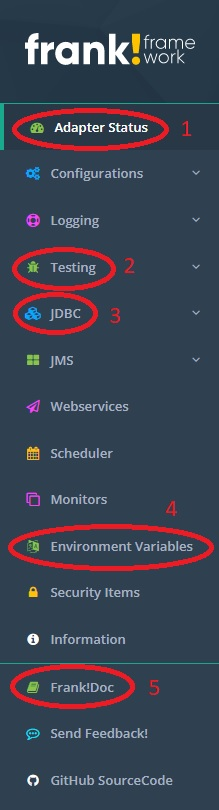
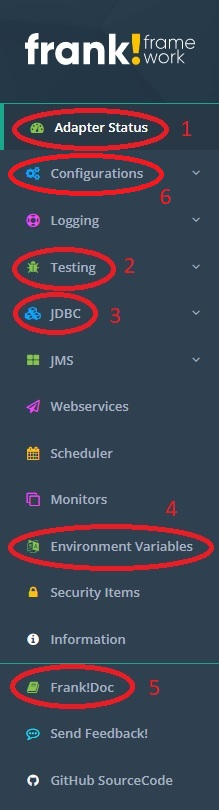
Rewrote section that explains Frank config XML and start new section for testing

Changed region(s): [[0.0274, 0.1852, 0.7945, 0.2778]]

diff --git a/docs/source/gettingStarted/helloIbis.rst b/docs/source/gettingStarted/helloIbis.rst
@@ -6,22 +6,25 @@ Hello World Source Code
 Introduction
 ------------
 
-In the previous section you installed the Frank!Runner, a tool to quickly start the Frank!Framework. You saw the directory structure resulting from this installation. There was subdirectory ``configurations`` with subdirectories ``Example1`` and ``Example2``, which are deployed Frank configs. These directories contain files with extension ``.xml`` and files with extension ``.properties``. XML stands for Extensible Markup Language, see https://www.w3.org/XML/. Property files are text files that contain name/value pairs. In this section you start learning how to write these files.
+In the previous section you installed the Frank!Runner, a tool to quickly start the Frank!Framework. You saw the directory structure resulting from this installation. There was subdirectory ``configurations`` with subdirectories ``Example1a`` and ``Example1b``, which are deployed Frank configs. These directories contain files with extension ``.xml`` and files with extension ``.properties``. XML stands for Extensible Markup Language, see https://www.w3.org/XML/. Property files are text files that contain name/value pairs. In this section you start learning how to write these files.
 
-The simplest configuration you encountered in the previous section was ``Example2``. You will examine its XML text in detail to learn the basic concepts of Frank development. It consists of only one file, ``Configuration.xml``. This file reads as follows:
+The configurations Example1a and Example1b that you encountered in the previous section are almost the same. You will examine the ``Configuration.xml`` of Example1a. It reads as follows:
 
 .. code-block:: XML
 
-   <Configuration name="Example2">
-     <Adapter name="Example2Adapter">
-       <Receiver name="Example2Receiver">
-         <JavaListener name="Example2" serviceName="Example2"/>
+   <Configuration 
+     xmlns:xsi="http://www.w3.org/2001/XMLSchema-instance"
+     xsi:noNamespaceSchemaLocation="../FrankConfig.xsd"
+     >
+     <Adapter name="Adapter1a">
+       <Receiver name="Receiver1a">
+         <ApiListener name="Listener1a" uriPattern="service1a"/>
        </Receiver>
-       <Pipeline firstPipe="Example">
-         <FixedResultPipe name="Example" returnString="Hello World2">
+       <Pipeline>
+         <Exit path="EXIT" state="SUCCESS"/>
+         <FixedResultPipe name="HelloWorld" returnString="Hello World!">
            <Forward name="success" path="EXIT"/>
          </FixedResultPipe>
-         <Exit path="EXIT" state="success"/>
        </Pipeline>
      </Adapter>
    </Configuration>
@@ -33,11 +36,22 @@ The outer part of ``Configuration.xml`` reads:
 
 .. code-block:: XML
 
-   <Configuration name="Example2">
+   <Configuration 
+     xmlns:xsi="http://www.w3.org/2001/XMLSchema-instance"
+     xsi:noNamespaceSchemaLocation="../FrankConfig.xsd"
+     >
      ...
    </Configuration>
 
-It gives the configuration its name ``Example2``.
+You see that an XML schema file ``FrankConfig.xsd`` is referenced. This file describes the syntax of Frank configurations. It prescribes which XML elements are allowed and what attributes they can have. Some text editors including Visual Studio Code and Eclipse can flag syntax errors. They can also provide automatic code completion. Finally, they can show information about the meaning of the elements and attributes you are using. This information is included in the XSD. The Frank!Runner takes care of downloading ``FrankConfig.xsd`` and putting it in the right directory. Please note the relative path ``../FrankConfig.xsd``. This path references ``FrankConfig.xsd`` from the parent of the directory where ``Configuration.xsd`` resides.
+
+More reference information can be found in the Frank!Doc, which you can access through the main menu (see previous section). Here is a screenshot:
+
+.. image:: frankDoc2.jpg
+
+There is a button to download ``FrankConfig.xsd`` manually (number 1). You may need it if you are not using the Frank!Runner. To understand the Frank!Doc, you need to know that each XML element that you can use corresponds to a Java class in the source code of the Frank!Framework (publicly available on `GitHub <https://github.com/ibissource/iaf>`_). For your convenience, we have divided these Java classes in groups. You can select a group in the top-left menu (number 2). Then you can select a Java class in the bottom-left menu (number 3). To the right, you see information about the Java class. You have the full name of the Java class (number 4). You see what XML elements you can use to reference the class (number 5). In the case of Java class ``Configuration``, the only way to reference it is ``<Configuration>``, but there are Java classes that can play different roles within a configuration. Such Java classes have multiple XML elements.
+
+You see that a ``<Configuration>`` element can have a ``name`` attribute (number 6). This attribute has not been set, because the directory name has been used by the Frank!Framework to name the configuration. If you structure your configurations in a different way, you may have to set the ``name`` attribute for your configuration.
 
 Adapter
 -------
@@ -47,18 +61,17 @@ When we examine the contents of the ``<Configuration>`` tag, we find the followi
 .. code-block:: XML
 
    ...
-   <Adapter name="Example2Adapter">
-     <Receiver name="Example2Receiver">
-       <JavaListener name="Example2" serviceName="Example2"/>
+   <Adapter name="Adapter1a">
+     <Receiver name="Receiver1a">
+       ...
      </Receiver>
-     <Pipeline firstPipe="Example">
+     <Pipeline>
        ...
      </Pipeline>
    </Adapter>
    ...
    
-An adapter is a service that is triggered by a receiver and executes a pipeline in response. The ``<Receiver>`` tag
-defines the receiver, while the ``<Pipeline>`` tag defines the pipeline. You encountered adapters and receivers in the previous section on the Adapter Status webpage. That webpage shows their names and their state (e.g. started, stopped, error).
+An adapter is a service that is triggered by a receiver and executes a pipeline in response. It can be compared to a subroutine in programming languages. The receiver defines how the input message is obtained. The pipline defines how the input message is processed. The pipeline produces an output message that may be used by the receiver to produce a response. The ``<Receiver>`` tag configures the receiver and the ``<Pipeline>`` tag defines the pipeline. 
 
 Receiver
 --------
@@ -68,16 +81,16 @@ Our receiver reads:
 .. code-block:: XML
 
    ...
-   <Receiver name="Example2Receiver">
-     <JavaListener name="Example2" serviceName="Example2"/>
+   <Receiver name="Receiver1a">
+     <ApiListener name="Listener1a" uriPattern="service1a"/>
    </Receiver>
    ...
 
-It has name ``Example2Receiver``. Its further definition is provided by the tag within: ``<JavaListener>``. Listeners
-are building blocks that accept input. The choice for ``<JavaListener>`` means that the adapter "Example2Adapter" is
-called directly from Java code. This is a good choice if you only want to call your adapter from other adapters.
+It has name ``Receiver1a``. Its further definition is provided by the tag within: ``<ApiListener>``. Listeners
+are building blocks that accept input. The choice for ``<ApiListener>`` means that the adapter "Adapter1a" listens to
+RESTful HTTP requests and that the HTTP endpoint should be described in an OpenAPI Specification (see `<https://swagger.io/specification/>`_).
 
-There are other listeners, for example ``<ApiListener>`` and ``<DirectoryListener>``. ``ApiListener`` makes your adapter listen to REST HTTP requests. ``DirectoryListener`` triggers your adapter when a file is added to a chosen directory on a (server-side) local file system. The Frank!Framework allows you to search the listener you need. This is explained in subsection :ref:`configurationSyntaxChecking`.
+There are other listeners, for example ``<JavaListener>`` and ``<DirectoryListener>``. ``JavaListener`` makes your adapter listen to direct Java calls. ``DirectoryListener`` triggers your adapter when a file is added to a chosen directory on a (server-side) local file system. The Frank!Doc has a group that contains all listeners.
 
 Pipeline
 --------
@@ -87,46 +100,25 @@ The pipeline defines how the message provided by the receiver should be processe
 .. code-block:: XML
 
    ...
-   <Pipeline firstPipe="Example">
-     ...
-     <Exit path="EXIT" state="success"/>
+   <Pipeline>
+     <Exit path="EXIT" state="SUCCESS"/>
+     <FixedResultPipe name="HelloWorld" returnString="Hello World!">
+       <Forward name="success" path="EXIT"/>
+     </FixedResultPipe>
    </Pipeline>
    ...
 
-A pipeline is a network of pipes. The ``firstPipe="Example"`` attribute defines that the message coming from the receiver should go
-to the pipe named "Example". The ``<Exit>`` tag defines the state in which processing can end. In our case, we have one state that we name "success". It can be referenced from pipes by its path "EXIT".
+A pipeline is a network of pipes. Pipes are predefined functions that can be performed on the incoming message. The ``<FixedResultPipe>`` ignores the input and outputs a fixed string that can be configured. The fixed output string we want is in the ``returnString`` attribute. In the remainder of the :ref:`gettingStarted` chapter, we will see pipes with more interesting functions, like applying XSLT transformations and sending data to a database. The Frank!Doc has a group "Pipes" that holds all available pipes. The ``<Exit>`` tag defines a state in which processing can end. In our case, we have one state that we name "success". It can be referenced from pipes by its path "EXIT".
 
-Pipes and forwards
-------------------
+The ``<Forward>`` within a pipe tag defines what should happen after the execution of that pipe. A forward consists of a forward name and a path. Each pipe predefines the forward names from which it can send the output. For the fixed result pipe, the only possibility is "success", but many pipes also have the possibility "failure". This allows Frank developers to handle errors and to have branching pipelines. The ``<Forward>`` tag within the ``<FixedResultPipe>`` references the path "EXIT", which is the path of the ``<Exit>`` tag. The output of the ``<FixedResultPipe>`` is the result of the pipeline. In more complex pipelines, there are also forwards that reference other pipes by their configured ``name`` attribute. It is also possible to have multiple ``<Exit>`` tags within a ``<Pipeline>``.
 
-We have a very simple pipeline that has only one pipe.
-It reads:
+The shown example pipeline only transform the incoming message to an output message, but you can also send output to external systems. Please see the following screenshot of the Frank!Doc:
 
-.. code-block:: XML
+.. image:: frankDocSenderPipe.jpg
 
-   ...
-   <FixedResultPipe name="Example" returnString="Hello World2">
-     <Forward name="success" path="EXIT"/>
-   </FixedResultPipe>
-   ...
-
-Pipes are predefined functions that can be performed on the incoming message. The ``<FixedResultPipe>`` ignores the input and outputs a fixed string that can be configured. We configure the ``name`` to be "Example". This satisfies the reference made in the ``firstPipe`` attribute in the ``<Pipeline>`` tag. Therefore, the (ignored) incoming message is the message we got from the receiver. The fixed output string we want is in the ``returnString`` attribute.
-
-In the remainder of the :ref:`gettingStarted` chapter, we will see pipes with more interesting functions, like applying XSLT transformations and sending data to a database. In subsection :ref:`configurationSyntaxChecking` you will learn how to search the pipe you need.
-
-The ``<Forward>`` within a pipe tag defines what should happen after the execution of that pipe. A forward consists of a forward
-name and a path. Each pipe predefines the forward names from which it can send the output. For the fixed result pipe, the only
-possibility is "success", but many pipes also have the possibility "failure". This allows Frank developers to handle errors and to have branching pipelines.
-
-Our forward points to the path "EXIT", which is defined within the ``<Exit>`` tag as the only possible exit of the pipeline. In more
-complex pipelines, there are also forwards that reference other pipes by their configured ``name`` attribute. It is also possible to have
-multiple ``<Exit>`` tags within a ``<Pipeline>``.
-
-.. NOTE::
-
-   If you studied computer science or mathematics, the following may help. A pipeline is an example of a graph, with the pipes being the  nodes and the forwards being the edges. Before or after configuring the individual pipes and forwards, you name all allowed exit states of the pipeline. Each forward then either references a next pipe by its name, or names one of the defined exits to indicate the end of processing.
+When you want to send data to an external system, you use pipe ``<SenderPipe>`` (number 1). A ``<SenderPipe>`` can have a sender inside (number 2). When you hover over that word, you get the list of allowed child elements. You can also search senders by selecting group "Senders" in the top-left menu. The choice of the sender and its configuration determine how the input message to the ``<SenderPipe>`` is sent. In section :ref:`insertDb`, you will see that a ``<FixedQuerySender>`` can be used to write data to a database. The figure also shows that the predefined forwards of a pipe are documented (number 3).
 
 Conclusion
 ----------
 
-You studied a simple adapter that is included as an example within the Frank!Runner. It has a receiver that allows us to trigger it. It has a pipeline with a single pipe that outputs a fixed message. In the next section, :ref:`helloTestPipeline`, we will see this adapter in action.
+You studied a simple adapter that is included as an example within the Frank!Runner. It has a receiver that allows us to trigger it. It has a pipeline with a single pipe that outputs a fixed message. In the next section, :ref:`helloTestPipeline`, we will see this adapter in action and we will learn how to test pipelines.

diff --git a/docs/source/gettingStarted/examineExample.rst b/docs/source/gettingStarted/examineExample.rst
@@ -28,10 +28,10 @@ Please do the following:
         |- examples
            |- Frank2Example1
               |- configurations
-                 |- Example1
+                 |- Example1a
                     |- Configuration.xml
                     |- ...
-                 |- Example2
+                 |- Example1b
                     |- Configuration.xml
                     |- ...
               |- tests
@@ -39,7 +39,7 @@ Please do the following:
            |- ...
         |- ...
 
-#. Check that you do NOT have ``franks/frank-runner/build.properties`` at this point. You will study the default Frank, which is in the directory ``franks/frank-runner/examples/Frank2Example1``.
+#. Check that you do NOT have ``franks/frank-runner/build.properties`` at this point. You will study the default Frank application, which is in the directory ``franks/frank-runner/examples/Frank2Example1``.
 #. Start the Frank!Runner as explained in its ``README.md`` file, for example by running ``franks/frank-runner/start.bat``.
 
 The main menu
@@ -53,66 +53,59 @@ The main menu
 #. You see "Larva", "Ladybug", "Test Pipeline" and "Test serviceListener". You will examine the first three of these in this :ref:`gettingStarted`.
 #. You also have "JDBC" (number 3), which stands for "Java DataBase Connectivity". This link can also be expanded by clicking it. Here you can find pages to manage your database.
 #. You will soon examine the "Frank!Doc" page (number 5). Here you can find some resources that help you to write proper Frank configurations.
-#. Finally, the "Environment Variables" page (number 4) is relevant. Here you can find many properties configured within your Frank.
+#. The "Environment Variables" page (number 4) is relevant. Here you can find many properties configured within your Frank.
+#. Finally, you have "Configurations" (number 6). Here you can view the XML code of your configurations as explained later in this section. You can also use this option to upload configurations if you do not want to use the local file system.
 
-General structure of the example Frank
---------------------------------------
+General structure of the example Frank application
+--------------------------------------------------
 
 Let us now investigate the general structure of the ``Frank2Example1`` application. 
 
-13. Look at the "Adapter Status" page. You see you really do have the ``Frank2Example1`` Frank-application (number 2 in the figure below):
+14. Look at the "Adapter Status" page. You see you really do have the ``Frank2Example1`` Frank application (number 2 in the figure below):
 
     .. image:: adapterStatusTopLeft.jpg
 
 #. You also see which version of the Frank!Framework you are using (number 1).
-
-   .. NOTE::
-
-      You will encounter words like Ibis and IAF sometimes. The name of our company became WeAreFrank! by the end of 2019, which was a good moment to rename our products. Implementing these name changes is not yet finished. The words are related to the old names.
-
-#. You saw earlier that the directory ``franks/frank-runner/examples/Frank2Example1/configurations`` has two subdirectories, namely ``Example1`` and ``Example2``. These appear as tabs (number 3 and number 4). These are Frank configurations.
+#. You saw earlier that the directory ``franks/frank-runner/examples/Frank2Example1/configurations`` has two subdirectories, namely ``Example1a`` and ``Example1b``. These appear as tabs (number 3 and number 4). These are Frank configurations.
 
 Frank configurations are meant to be independent of the Frank!Framework instance on which they are deployed. This situation is comparable to software packages in general, which are independent of the specific server on which they are deployed. An example of a software package is Microsoft Word. Everyone who wants this application uses the same installer, independent of the computer on which Microsoft Word is installed.
 
 You as a Frank developer develop a Frank config, which plays the role of a software package in the above metaphor. When you are done, you hand over your Frank config to your customer. The customer has his own production instance of the Frank!Framework, which plays the role of the server. The system administrator deploys your Frank config on the production instance. He can fine-tune the behavior of your Frank config by adding additional configurations on the instance level.
 
-.. NOTE::
+Below the top part of the adapter status page that was shown at step 13, there is useful information about the statuses of your configurations. This information is discussed in chapter :ref:`operator`. There is one button you should remember at this point; it is shown in the figure below. You can use it to reload your configuration after editing it. It will save you a lot of time during development work, because you do not have to restart the Frank!Runner to apply your edits.
 
-   This is a simplified view of the life cycle of a Frank config. Professional Frank developers typically apply Continuous Delivery and Continuous Deploy (CI/CD).
-
-16. To examine the details of a Frank configuration, choose tab "Example2" (number 4 in the figure of step 13). You see the following:
-
-    .. image:: adapterStatusExample2.jpg
-
-#. Please hover over the icons shown as number 1 to number 5. They mean "Started", "Starting", "Stopped", "Stopping", "Error". You see here how many adapters you have and you see for each state how many are in that state. You get a general overview of the health of your configuration.
-#. In the row "Adapters", you see "Example2Adapter" (number 6). An adapter is comparable to a subroutine or method in a programming language. An adapter processes an incoming message, typically an XML document, and produces output. The meaning of "Receivers" will be explained in the next section.
-#. As a Frank developer, you will be very glad with the following feature. You can reload Frank configs without restarting the Frank!Framework. To do this, press the button labeled with number 1 in the figure below:
-
-   .. image:: adapterStatusTopRight.jpg
-
-#. The button changes while the Frank!Framework is busy reloading. When the icon changes back then the Frank!Framework is done.
-#. The button labeled with number 2 is also relevant. It expands all adapters to show you detailed information. You will need it when you work with Larva, see section :ref:`gettingStartedLarva`.
+.. image:: configurationRefresh.jpg
 
 The sources of your Frank configs
 ---------------------------------
 
 System administrators may want to check the sources of the Frank configs they see. Doing this is also relevant for Frank developers who want to debug their work. Please do the following:
 
-22. In the main menu, choose "Environment Variables" (number 5 in the figure below).
+17. In the main menu, choose "Environment Variables" (number 5 in the figure below).
 
     .. image:: mainMenu.jpg
 
-#. Press Ctrl-F to search on this page. In the search field, type ``configurations.names``. Iterate over the search results until you see the following properties: "configurations.directory", "configurations.Example1.classLoaderType", "configurations.Example2.classLoaderType" and "configurations.names".
+#. Press Ctrl-F to search on this page. In the search field, type ``configurations.names``. Iterate over the search results until you see the following properties: "configurations.directory", "configurations.Example1a.classLoaderType", "configurations.Example1b.classLoaderType" and "configurations.names".
 
    .. NOTE::
 
       These properties have been set by the Frank!Runner. If you deploy your Frank config another way, you may have to care about these properties yourself.
 
-#. Property "configurations.names" has value "Example1,Example2", confirming that you have these two Frank configs (excluding the predefined configurations).
-#. Property "configurations.Example1.classLoaderType" has value "DirectoryClassLoader". This means that configuration "Example1" comes from the file system of the computer running the Frank!Framework. Frank configurations can also be deployed on the database, resulting in a different value for this property. Property "configurations.Example2.classLoaderType" also has value "DirectoryClassLoader", confirming that Frank config "Example2" also comes from the local file system.
-#. Property "configurations.directory" has value ``absolute-path-of-directory-franks\frank-runner\..\frank-runner\examples\Frank2Example1\configurations``, the "configurations" directory under the "examples/Frank2Example1" instance. This is the default directory for Frank configs with classLoaderType "DirectoryClassLoader".
+#. Property "configurations.names" has value "Example1a,Example1b", confirming that you have these two Frank configs (excluding the predefined configurations).
+#. Property "configurations.Example1a.classLoaderType" has value "DirectoryClassLoader". This means that configuration "Example1a" comes from the file system of the computer running the Frank!Framework. Frank configurations can also be deployed on the database, resulting in a different value for this property. Property "configurations.Example1b.classLoaderType" also has value "DirectoryClassLoader", confirming that Frank config "Example1b" also comes from the local file system.
+#. Property "configurations.directory" has value ``absolute-path-of-directory-franks\frank-runner\examples\Frank2Example1\configurations``, the "configurations" directory under the "examples/Frank2Example1" instance. This confirms the directory that holds the source code of your configurations.
+
+You can also use the Frank!Console to see what XML code has been loaded. Please do the following:
+
+22. Click "Configurations" in the main menu (number 1 in the figure below).
+
+    .. image:: showConfiguration.jpg
+
+#. The "Configurations" item expands. Click "Show configurations" (number 2).
+#. You can choose which configuration you want to see. In the figure all configurations are shown (number 3). You can also choose to see one of the configurations "Example1a" or "Example1b".
+#. Choose "Original configuration" (number 4). With "Loaded Configuration", you would see a transformed configuration that is used internally by the Frank!Framework. That one is harder to read.
 
 Summary
 -------
 
-The Frank!Runner allows you to quickly start the Frank!Framework. After starting it, you can visit its Graphical User Interface, the Frank!Console. The Frank!Console shows you what Frank configurations have been deployed and where there sources are located. A Frank configuration can be compared to a computer program which is independent of the computer on which it is deployed. The role of the computer is played by an instance of the Frank!Framework. The Frank!Framework can host multiple Frank configs, each being presented in its own tab on the Adapter Status page. The Adapter Status page shows that a Frank configuration contains adapters. An adapter receives messages and produces output, making it comparable to a subroutine in a programming language. The Adapter Status page shows the status of your adapters and so-called "receivers", which are explained later. Finally, you can use the Adapter Status screen to reload your Frank configs without restarting the Frank!Framework. This will save you a lot of time.
+The Frank!Runner allows you to quickly start the Frank!Framework. After starting it, you can visit its Graphical User Interface, the Frank!Console. The Frank!Console shows you what Frank configurations have been deployed and where their sources are located. A Frank configuration can be compared to a computer program which is independent of the computer on which it is deployed. The role of the computer is played by an instance of the Frank!Framework. The Frank!Framework can host multiple Frank configs, each being presented in its own tab on the Adapter Status page. You can use the Adapter Status screen to reload your Frank configs without restarting the Frank!Framework. This will save you a lot of time.

diff --git a/docs/source/gettingStarted/testPipelines.rst b/docs/source/gettingStarted/testPipelines.rst
@@ -1,0 +1,26 @@
+.. _gettingStartedTestPipelines:
+
+Testing Pipelines
+=================
+
+This section shows three ways to test and debug your pipeline. First, you can run your pipeline while disregarding its receiver. Second, you can see a detailed report on the way a message has been processed. This is done by our Ladybug debugger. Third, you can run unit tests using our test tool Larva.
+
+Test a Pipeline
+---------------
+
+See the figure below:
+
+.. image:: testPipeline.jpg
+
+You can run your pipeline by choosing "Testing | Test a Pipeline" from the main menu. You have feedback that you chose that option (number 1). Next, choose an adapter (number 2). Then enter the input message you want (number 3). Usually the input message should be XML. Many pipelines expect XML and produce unexpected errors if the input does not conform the XML standard. Then press "Send" (number 4). You see the output message (number 5) and the ``state`` of the exit (number 6).
+
+Ladybug
+-------
+
+See the figure below:
+
+.. image:: ladybugSummary.jpg
+
+You can examine your pipeline runs by choosing "Testing | Ladybug" from the main menu. You have feedback that you chose that option (number 1). Next, press "Refresh" (number 2) to update the overview of your runs. The figure shows only one report (number 3). Usually, you can use the "EndTime" and the adapter "Name" columns to find the report you want. Click that row to view it in the bottom-left tree-view. You can expand and collapse the pipeline and the pipes it contains. For each node, you can see the input or output message by selecting it. By selecting number 4, you see the input message of the pipeline. The output message of the pipeline is at node 7. The input and the output of the only pipe, the ``<FixedResultPipe>``, are at nodes 5 and 6. Information about the chosen node can be seen to the right: number 8 shows the message.
+
+Ladybug has many functions. It is explained in detail in chapter :ref:`
